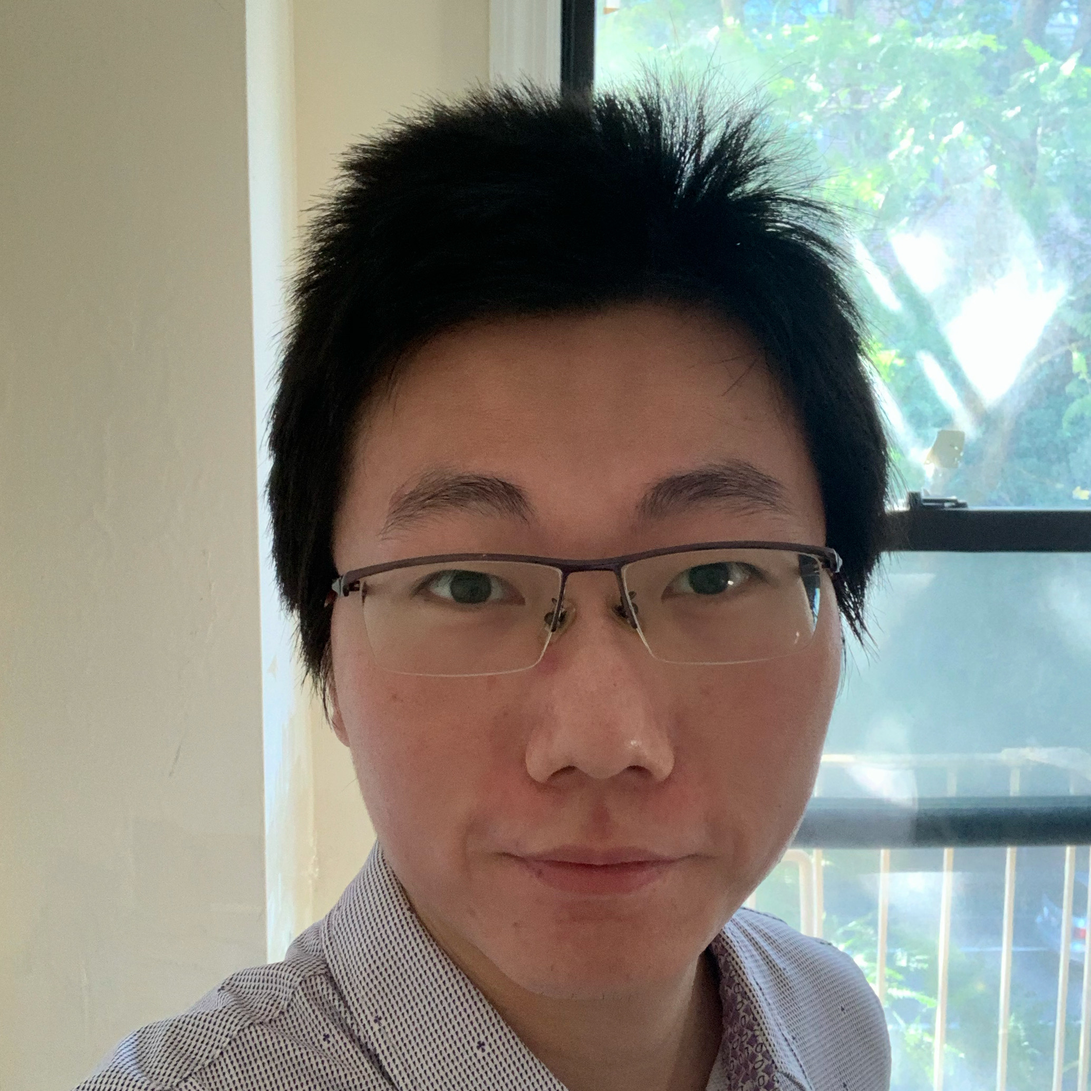
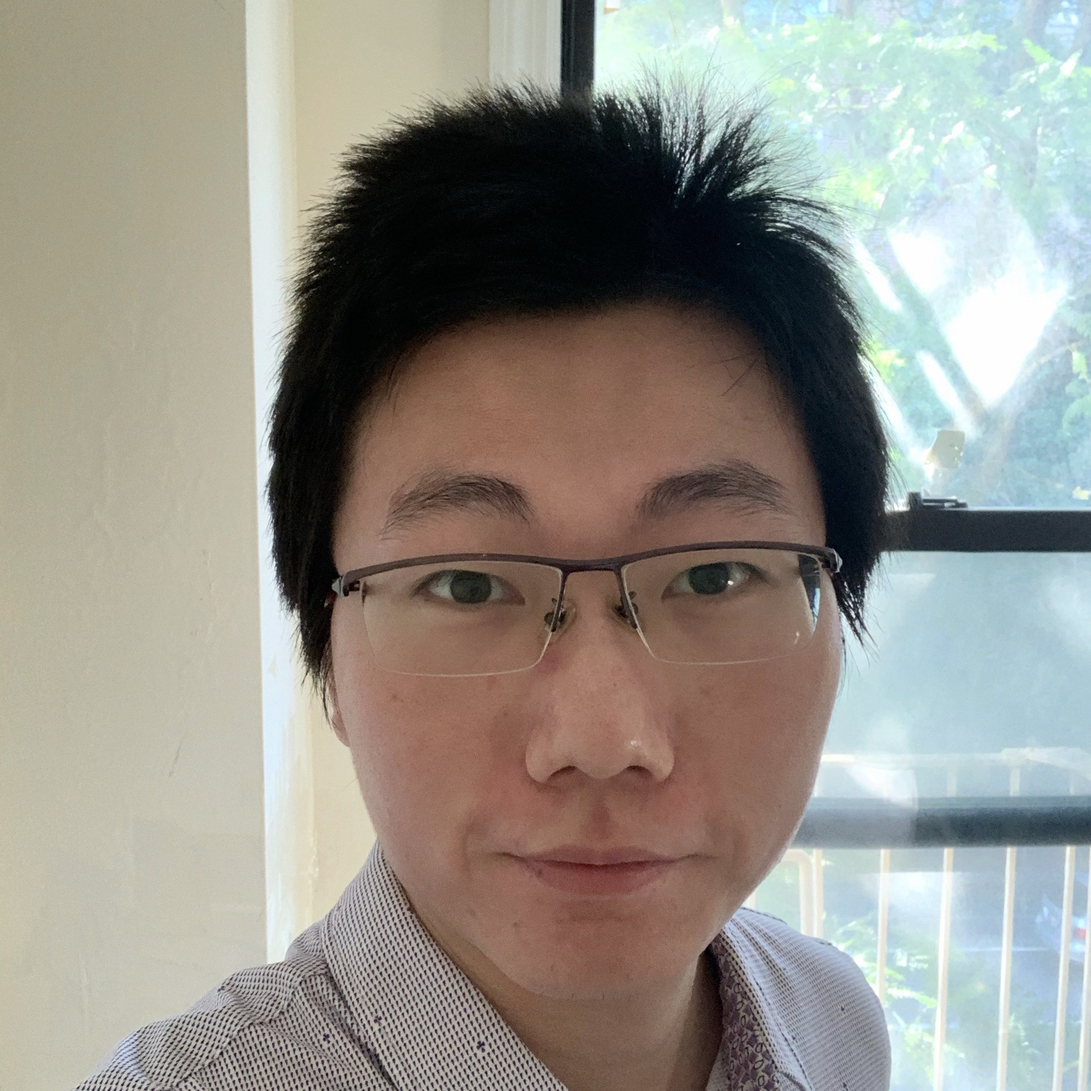
Correct typo

diff --git a/author/zhi-wang/index.html b/author/zhi-wang/index.html
@@ -237,10 +237,10 @@
   <meta property="og:site_name" content="Zhi Wang">
   <meta property="og:url" content="https://zhiwpku.github.io/author/zhi-wang/">
   <meta property="og:title" content="Zhi Wang | Zhi Wang">
-  <meta property="og:description" content="Ph.D. student in Statistics"><meta property="og:image" content="https://zhiwpku.github.io/images/icon_hu0b7a4cb9992c9ac0e91bd28ffd38dd00_9727_512x512_fill_lanczos_center_2.png">
-  <meta property="twitter:image" content="https://zhiwpku.github.io/images/icon_hu0b7a4cb9992c9ac0e91bd28ffd38dd00_9727_512x512_fill_lanczos_center_2.png"><meta property="og:locale" content="en-us">
+  <meta property="og:description" content="Ph.D. student in Statistics"><meta property="og:image" content="https://zhiwpku.github.io/author/zhi-wang/avatar_hu1dbf659d665dc5d4fdae44519396326e_1060554_270x270_fill_q90_lanczos_center.jpeg">
+  <meta property="twitter:image" content="https://zhiwpku.github.io/author/zhi-wang/avatar_hu1dbf659d665dc5d4fdae44519396326e_1060554_270x270_fill_q90_lanczos_center.jpeg"><meta property="og:locale" content="en-us">
   
-    <meta property="og:updated_time" content="2020-06-21T00:00:00&#43;00:00">
+    
   
 
   
@@ -413,57 +413,130 @@
 
 
 
-<div class="universal-wrapper pt-3">
-  <h1>Zhi Wang</h1>
-</div>
-
 
 <section id="profile-page" class="pt-5">
   <div class="container">
     
     
+      
+      
+      
+      
 
-    
-    
-    
-    <div class="article-widget content-widget-hr">
-      <h3>Latest</h3>
-      <ul>
+
+
+
+  
+
+
+
+
+
+
+
+
+
+
+<div class="row">
+  <div class="col-12 col-lg-4">
+    <div id="profile">
+
+      
+      
+      <img class="avatar avatar-circle" src="/author/zhi-wang/avatar_hu1dbf659d665dc5d4fdae44519396326e_1060554_270x270_fill_q90_lanczos_center.jpeg" alt="Zhi Wang">
+      
+
+      <div class="portrait-title">
+        <h2>Zhi Wang</h2>
+        <h3>Ph.D. student in Statistics</h3>
+
+        
+        <h3>
+          <a href="http://www.columbia.edu" target="_blank" rel="noopener">
+          <span>Columbia University</span>
+          </a>
+        </h3>
+        
+      </div>
+
+      <ul class="network-icon" aria-hidden="true">
+        
+        
+        
+        
+          
+        
+        
+        
+        
+        
+          
         
         <li>
-          <a href="/publication/process_data_scoring/">Accurate assessment via process data</a>
-        </li>
-        
-        <li>
-          <a href="/publication/mrn_algorithm/">Adaptively weighted stochastic gradient descent algorithm</a>
-        </li>
-        
-        <li>
-          <a href="/publication/process_data_subtask/">Exploratory analysis of process data through a predictive model</a>
-        </li>
-        
-        <li>
-          <a href="/publication/process_data_package/">ProcData: An R package for process data analysis</a>
-        </li>
-        
-        <li>
-          <a href="/publication/mrn_theory/">Statistical analysis of multi-relational network recovery</a>
-        </li>
-        
-        <li>
-          <a href="/publication/process_data_seq2seq/">An exploratory analysis of the latent structure of process data via action sequence autoencoders</a>
-        </li>
-        
-        <li>
-          <a href="/publication/process_data_mds/">Latent feature extraction for process data via multidimensional scaling</a>
-        </li>
-        
-        <li>
-          <a href="/publication/comm/">Sums of possibly associated multivariate indicator functions: The Conway–Maxwell-Multinomial distribution</a>
+          <a href="/#contact" >
+            <i class="fas fa-envelope big-icon"></i>
+          </a>
         </li>
         
       </ul>
+
     </div>
+  </div>
+  <div class="col-12 col-lg-8">
+
+    
+    
+
+    <p>I&rsquo;m a fourth year Ph.D. student at 
+<a href="http://stat.columbia.edu/" target="_blank" rel="noopener">Department of Statistics</a>, Columbia University. I work with 
+<a href="http://stat.columbia.edu/~jcliu/" target="_blank" rel="noopener">Prof. Jingchen Liu</a> and 
+<a href="http://stat.columbia.edu/~zying/" target="_blank" rel="noopener">Prof. Zhiliang Ying</a> on statistical learning for 
+<a href="http://scientifichpc.com/processdata/" target="_blank" rel="noopener">process data</a> and its application in 
+<a href="https://www.psychometricsociety.org/" target="_blank" rel="noopener">psychometrics</a>.</p>
+
+
+    <div class="row">
+
+      
+      <div class="col-md-5">
+        <h3>Interests</h3>
+        <ul class="ul-interests">
+          
+          <li>Statistical Machine Learning</li>
+          
+          <li>Latent Variable Modeling</li>
+          
+          <li>Longitudinal Data Analysis</li>
+          
+        </ul>
+      </div>
+      
+
+      
+      <div class="col-md-7">
+        <h3>Education</h3>
+        <ul class="ul-edu fa-ul">
+          
+          <li>
+            <i class="fa-li fas fa-graduation-cap"></i>
+            <div class="description">
+              <p class="course">B.S. in Mathematics and Applied Mathematics, 2016</p>
+              <p class="institution">Peking University</p>
+            </div>
+          </li>
+          
+        </ul>
+      </div>
+      
+
+    </div>
+  </div>
+</div>
+
+    
+
+    
+    
     
   </div>
 </section>

diff --git a/index.html b/index.html
@@ -499,7 +499,7 @@
 
       
       
-      <img class="avatar avatar-circle" src="/author/zhi-wang/avatar_hu173ac04f61b270aa236cb14fa57a0a72_1028762_270x270_fill_q90_lanczos_center.jpeg" alt="Zhi Wang">
+      <img class="avatar avatar-circle" src="/author/zhi-wang/avatar_hu1dbf659d665dc5d4fdae44519396326e_1060554_270x270_fill_q90_lanczos_center.jpeg" alt="Zhi Wang">
       
 
       <div class="portrait-title">
@@ -548,7 +548,7 @@
 <a href="http://stat.columbia.edu/~jcliu/" target="_blank" rel="noopener">Prof. Jingchen Liu</a> and 
 <a href="http://stat.columbia.edu/~zying/" target="_blank" rel="noopener">Prof. Zhiliang Ying</a> on statistical learning for 
 <a href="http://scientifichpc.com/processdata/" target="_blank" rel="noopener">process data</a> and its application in 
-<a href="https://www.psychometricsociety.org/" target="_blank" rel="noopener">pychometrics</a>.</p>
+<a href="https://www.psychometricsociety.org/" target="_blank" rel="noopener">psychometrics</a>.</p>
 
 
     <div class="row">
